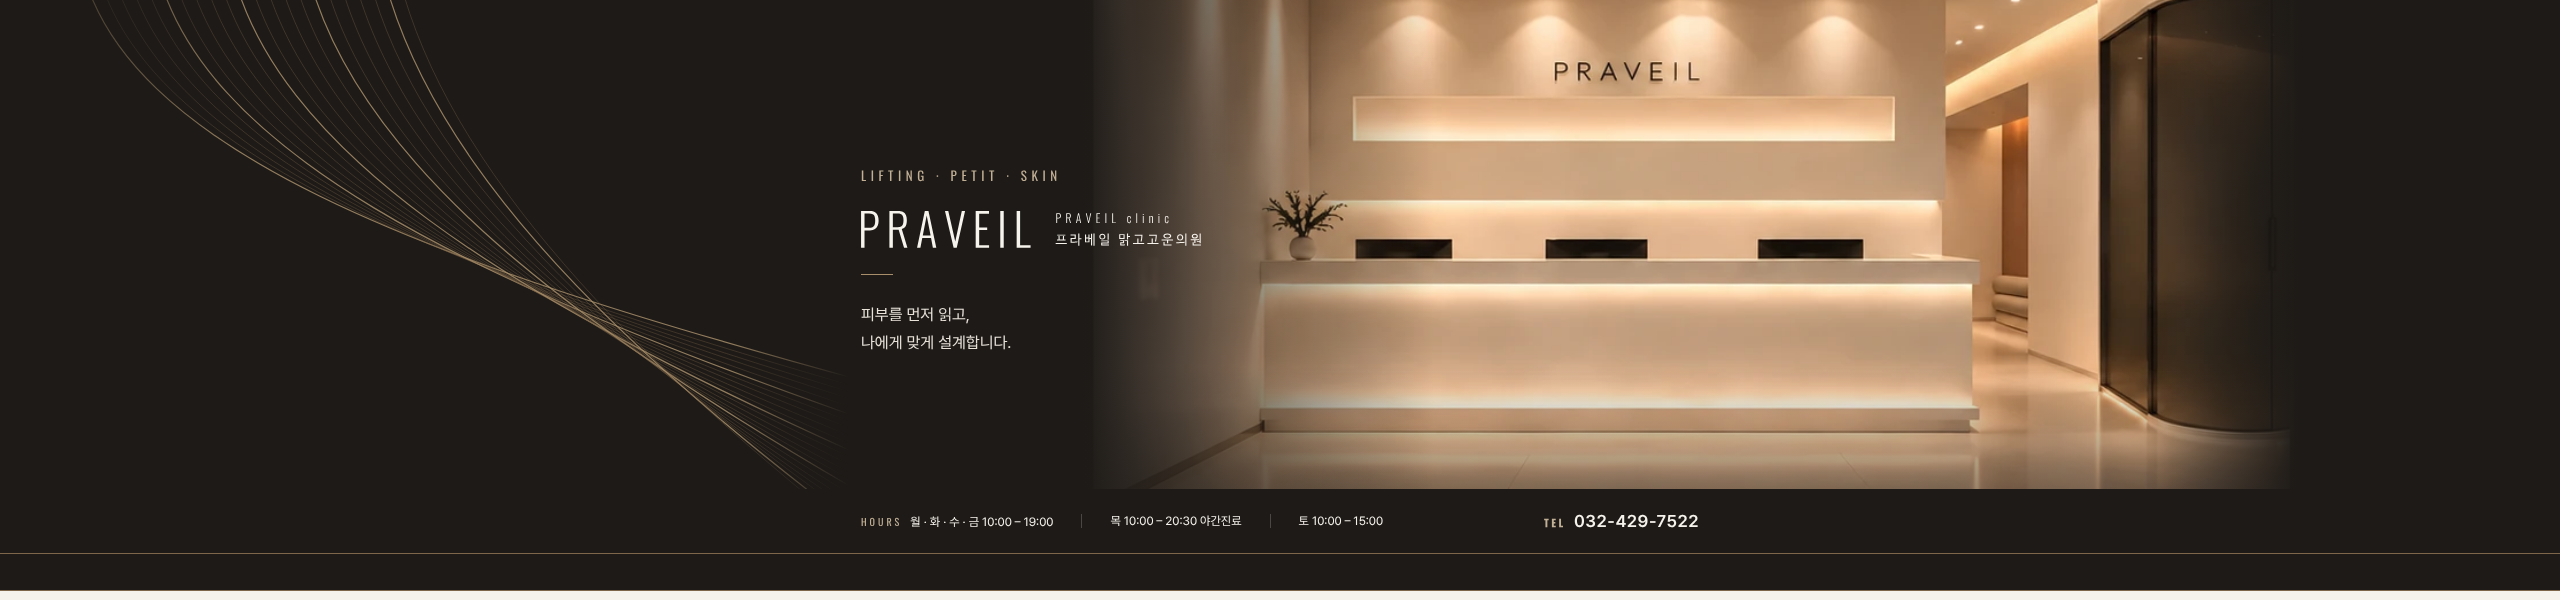
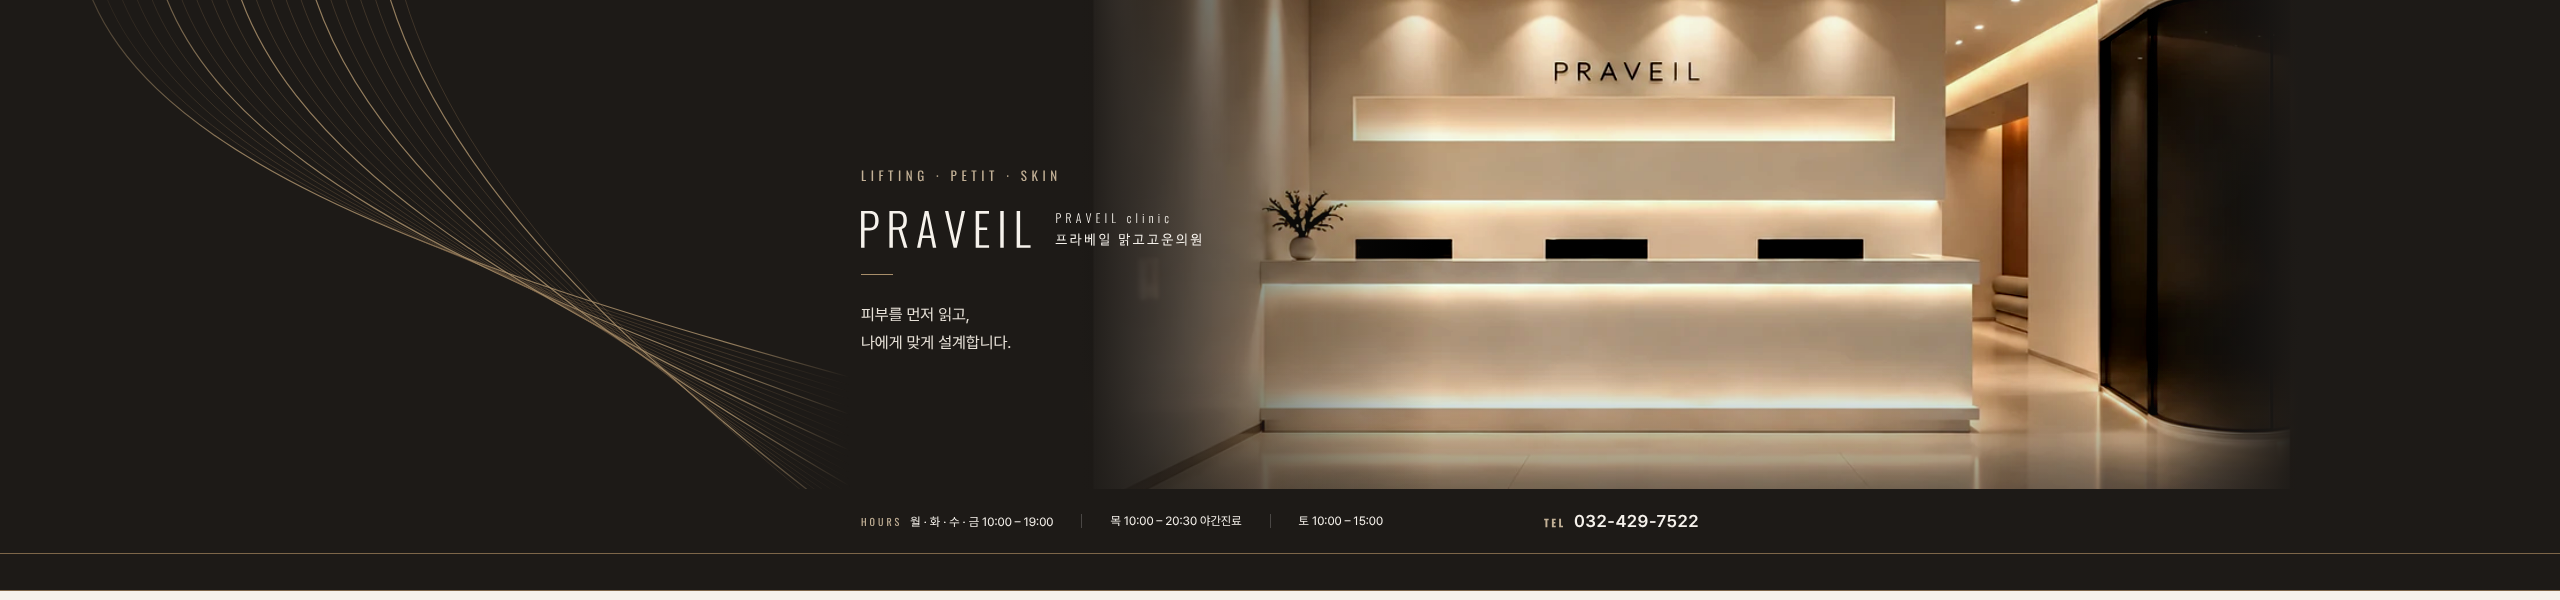
스킨 배경 입구 사진 색감을 이전 로비 사진에 맞춤
Claude-Session: https://claude.ai/code/session_01Ld2YJmc6iArSkVBjrjkKUN

Changed region(s): [[0.5312, 0.0, 0.875, 0.72], [0.5938, 0.09, 0.6562, 0.15], [0.5, 0.33, 0.5312, 0.39]]

diff --git a/docs/naver-blog-skin/skin.html b/docs/naver-blog-skin/skin.html
@@ -164,6 +164,8 @@
         top: -288px;
         width: 1920px;
         height: 1080px;
+        /* 색감을 이전 로비 사진에 맞춤 (채널별 밝기 · 대비, 아래 svg 필터) */
+        filter: url(#match-lobby);
       }
       /* 글씨 쪽은 짙게, 사진 쪽은 밝게. 양 끝은 짙은 색으로 맞춰 가로 반복해도 이음매가 없음 */
       #background .shade {
@@ -798,6 +800,15 @@
 
     <!-- 2. 스킨 배경: 화면 전체 폭 머리 (로비 사진 + 왼쪽 비단 곡선) -->
     <section class="asset hb" id="background">
+      <svg width="0" height="0" style="position: absolute">
+        <filter id="match-lobby" color-interpolation-filters="sRGB">
+          <feComponentTransfer>
+            <feFuncR type="linear" slope="1.209" intercept="-0.241" />
+            <feFuncG type="linear" slope="1.27" intercept="-0.2" />
+            <feFuncB type="linear" slope="1.3" intercept="-0.155" />
+          </feComponentTransfer>
+        </filter>
+      </svg>
       <div class="shot">
         <img class="photo" src="assets/lobby-entrance.webp" />
       </div>
